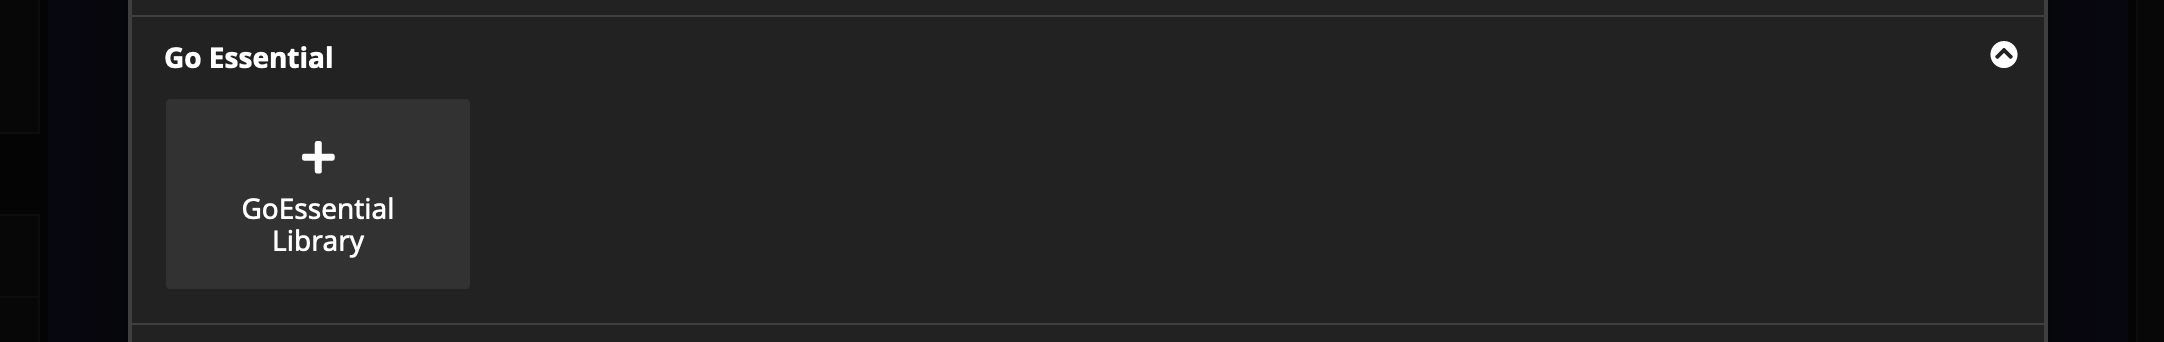
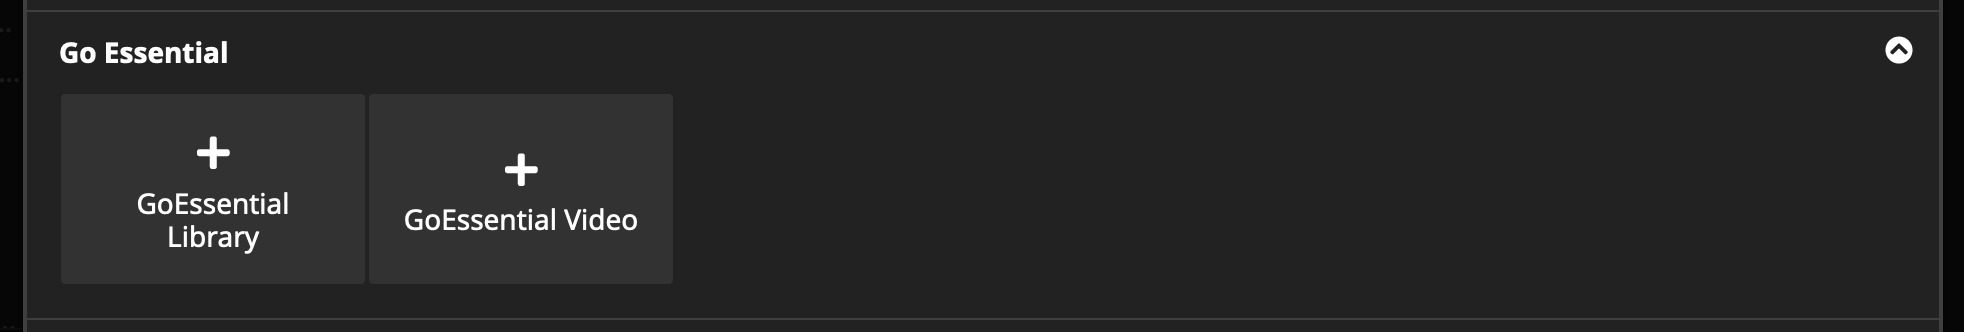
[task] introduce basic support for single video rendering

Changed region(s): [[0.0, 0.0, 0.9939, 1.0], [0.0932, 0.4217, 0.1553, 0.512], [0.2485, 0.4819, 0.2795, 0.5422]]

diff --git a/README.md b/README.md
@@ -13,15 +13,23 @@ And then run `composer update` in your projects root folder.
 
 ## Usage
 
-The package introduces a new content element called `GoE.Neos:Content.Library`:
+The package introduces two new content elements called `GoE.Neos:Content.Library` and ``GoE.Neos:Content.Video``:
 
 ![Preview in the Neos demo site](Documentation/goe-neos-creation-dialog.png) 
 
+### GoE.Neos:Content.Library
 Once you have created a new content element you have to set your GoEssential organisation identifier in the inspector panel:
 ![Preview in the Neos demo site](Documentation/goe-neos-inspector.png) 
 
 Your GoEssential video library is now ready for publishing:
 ![Preview in the Neos demo site](Documentation/goe-neos-example.png)
+
+### GoE.Neos:Content.Library
+If you would like to embed a single video you can do that as well. You can either set a GoEssential or a Youtube video ID.
+![Preview in the Neos demo site](Documentation/goe-neos-inspector-video.png)
+
+Your GoEssential video embed is now ready for publishing:
+![Preview in the Neos demo site](Documentation/goe-neos-example-video.png)
 
 ## Acknowledgment
 https://goessential.com/
